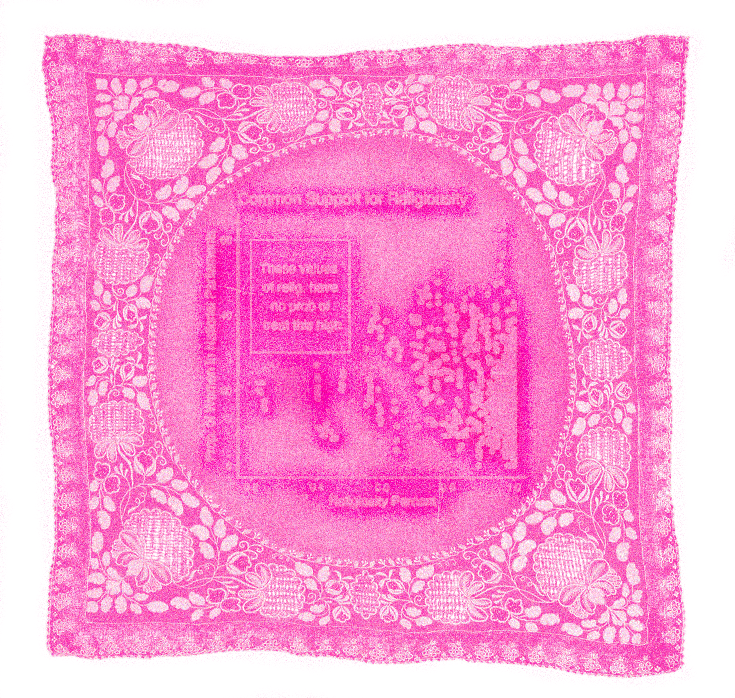
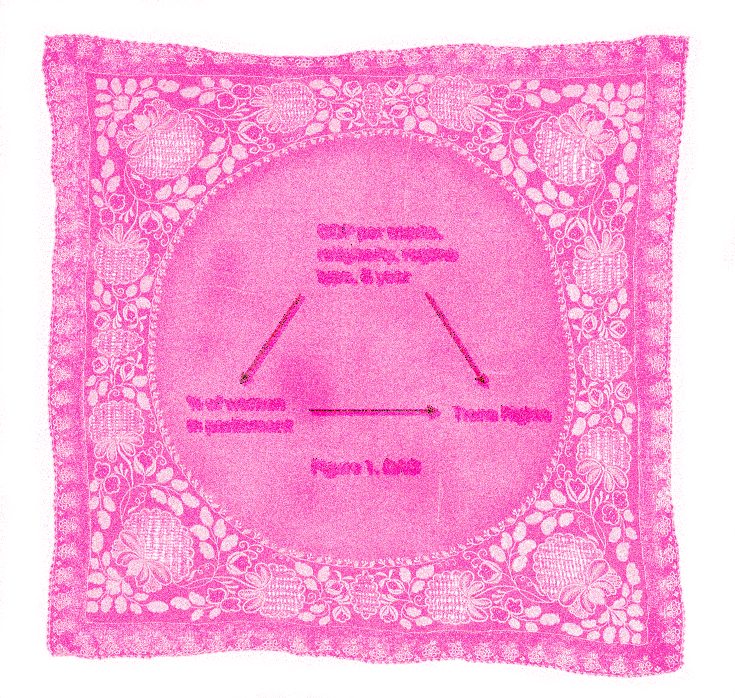
project covers

Changed region(s): [[0.2395, 0.2407, 0.7483, 0.7521]]

diff --git a/_projects/3_project.md b/_projects/3_project.md
@@ -2,8 +2,8 @@
 layout: page
 title: Hookup Culture at MSU
 description: A qualitative analysis examining MSU student perspectives of hookup culture on campus
-img: assets/img/projects/p3_without.png
-img_hover: assets/img/projects/p3.png
+img: assets/img/projects/p3_redo.png
+img_hover: assets/img/projects/p3_redo_.png
 # redirect: https://unsplash.com
 importance: 3
 category: work
